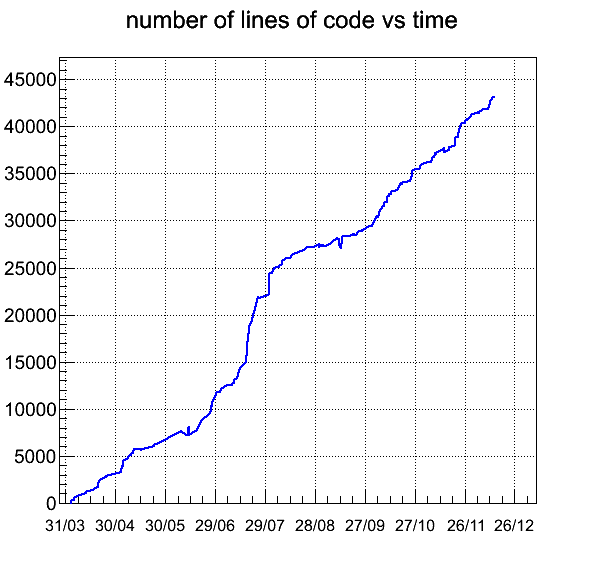
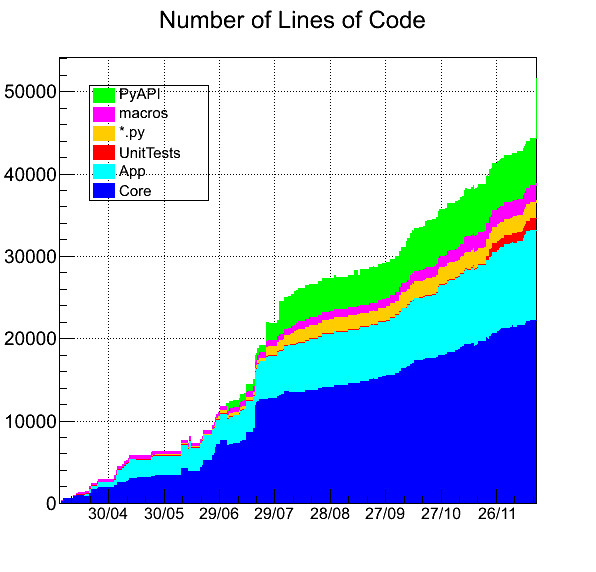
Number of lines of code has been split accross sub packages

diff --git a/Macros/GitUtils/git_loc_packages.py b/Macros/GitUtils/git_loc_packages.py
@@ -1,0 +1,216 @@
+#!/usr/bin/env python
+
+# calculate number of lines of code in GISASFW project as a function of time
+#
+# should be executed either from parent directory
+# "python Macros/GitUtils/git_loc_history.py"
+# or from local one
+# "python git_loc_history ../.."
+#
+# based on 'git-loc' from from https://github.com/ITikhonov/git-loc
+#
+# ROOT graphics added
+# see http://root.cern.ch/drupal/content/how-use-use-python-pyroot-interpreter
+
+import re
+from email.utils import parsedate
+from time import mktime
+from datetime import datetime
+from os import popen
+import os
+from sys import argv,stderr,stdout
+import getopt
+from array import array
+
+opts, args = getopt.getopt(argv[1:],None)
+extfolder = False
+if len(args) == 1:
+    extfolder = True
+    targetfolder = args[0]
+
+
+fc=0
+locs=0
+locs_type=[0,0,0,0,0,0,0,0]
+descr=["Core","App","UnitTests","*.py","macros","PyAPI","Third","Undef"]
+adds=None
+cmt=None
+prev_time = datetime(2000,1,1)
+
+history=[]
+
+def pop():
+    if adds is not None:
+        pstr="%s %8u %5s %5s %7s %s \t%s"%(d,locs,'+'+str(adds),'-'+str(dels),hsh,who,cmt.strip())
+        print pstr
+        atmp = []
+        for x in locs_type:
+            atmp.append(x)
+        history.append((d,locs,atmp,adds,dels,hsh,who,cmt))
+
+def filetype(x):
+    file_type=7
+    if "Core/Algorithms" in x and (".h" in x or ".cpp" in x):
+        file_type = 0
+    elif "Core/FormFactors" in x and (".h" in x or ".cpp" in x):
+        file_type = 0
+    elif "Core/Geometry" in x and (".h" in x or ".cpp" in x):
+        file_type = 0
+    elif "Core/Samples" in x and (".h" in x or ".cpp" in x):
+        file_type = 0
+    elif "Core/Tools" in x and (".h" in x or ".cpp" in x):
+        file_type = 0
+    elif "Core/inc" in x and (".h" in x):
+        file_type = 0
+    elif "Core/src" in x and (".cpp" in x):
+        file_type = 0
+    elif "App" in x and (".h" in x or ".cpp" in x):
+        file_type = 1
+    elif "UnitTests" in x and (".h" in x or ".cpp" in x):
+        file_type = 2
+    elif ".py" in x and not "ThirdParty" in x and not "Core/PythonAPI" in x:
+        file_type = 3
+    elif ".C" in x or ".pro" in x or ".pri" in x or "*.sh" in x and not "ThirdParty" in x:
+        file_type = 4
+    elif "Core/PythonAPI" in x and (".h" in x or ".cpp" in x):
+        file_type = 5
+    elif "ThirdParty" in x:
+        file_type = 6
+    return file_type
+
+prevfolder = os.getcwd()
+if extfolder:
+    os.chdir(targetfolder)
+
+# parsing output of git log 
+file_type_ppp = 7
+file_type_mmm = 7
+for x in popen('git log develop --reverse -p'):
+    if x.startswith('commit'):
+        pop()
+        hsh=x[7:14];
+    if x.startswith('Author'):
+        who=x.replace("Author: ",'').replace('\n','');
+        who=re.sub(">.*","",who);
+        who=re.sub(".*<","",who);
+    if x.startswith('Date'):
+        fc=1
+        d=datetime(*parsedate(x[5:])[:7])
+        t=mktime(parsedate(x[5:]))
+        adds=0
+        dels=0
+    if fc==2:
+        cmt=x[:-1]
+        fc=0
+    if fc==1:
+        if len(x)==1: fc=2
+    if x.startswith('+++'):
+        file_type_ppp = filetype(x)
+
+    if x.startswith('---'):
+        file_type_mmm = filetype(x)
+
+    if x.startswith('+') and not x.startswith('+++'):
+        locs_type[file_type_ppp] += 1
+        if file_type_ppp <6:
+            adds+=1
+            locs+=1
+    if x.startswith('-') and not x.startswith('---'):
+        locs_type[file_type_mmm] -= 1
+        if file_type_mmm <6:
+            dels+=1
+            locs-=1
+
+pop()
+os.chdir(prevfolder)
+
+
+# --------------------------------------------------------
+# making ROOT plot - number of lines of code .vs. time
+# --------------------------------------------------------
+from ROOT import *
+
+# beginning of coding (first commit) to set beginning of time x-scale
+c=history[0]
+td=TDatime(c[0].year, c[0].month, c[0].day, c[0].hour, c[0].minute, c[0].second)
+time_offset = int(td.Convert()) - 7*24.*3600 # one week before first commit
+
+# loop over commits
+x, y, xbins = array( 'd' ), array( 'd' ), array( 'd' )
+for c in history:
+  td=TDatime(c[0].year, c[0].month, c[0].day, c[0].hour, c[0].minute, c[0].second)
+  x.append(td.Convert() - time_offset)
+  xbins.append(td.Convert() - time_offset)
+  y.append(c[1]) # number of lines of code
+  print c[0],c[1],"(",descr[0],c[2][0],",",descr[1],c[2][1],",",descr[2],c[2][2],",",descr[3],c[2][3],",",descr[4],c[2][4],",",descr[5],c[2][5],")"
+
+# axis with bin edge description
+xbins = sorted(xbins)
+dx = x[len(x)-1] - x[len(x)-2]
+xbins.append(x[len(x)-1]+dx)
+xtmp = array( 'd' )
+for i in range(0, len(xbins)):
+    xtmp.append(xbins[i])
+
+# creating histograms
+nhistograms=6
+a_histograms = []
+hstack = THStack("hstack","Number of Lines of Code")
+a_colors=[kBlue, kCyan, kRed, kOrange, kMagenta, kGreen]
+legend = TLegend(0.15,0.65,0.35,0.85)
+legend.SetBorderSize(1);
+legend.SetFillStyle(1);
+for i_hist in range(0,nhistograms):
+    hist = TH1D(descr[i_hist],descr[i_hist],len(xtmp)-1,xtmp)
+    hist.GetXaxis().SetTimeDisplay(1)
+    hist.GetXaxis().SetTimeFormat("%d/%m")
+    hist.GetXaxis().SetLabelSize(0.03)
+    hist.GetXaxis().SetNdivisions(512)
+    hist.GetXaxis().SetTimeOffset(time_offset)
+    hist.SetLineColor(a_colors[i_hist])
+    hist.SetFillColor(a_colors[i_hist])
+    hstack.Add(hist,"][")
+    a_histograms.append(hist)
+
+# adding histograms to legend in right order
+for i_hist in range(nhistograms-1,-1,-1):
+    legend.AddEntry(a_histograms[i_hist],descr[i_hist],"f")
+
+# filling histograms
+for c in history:
+    td=TDatime(c[0].year, c[0].month, c[0].day, c[0].hour, c[0].minute, c[0].second)
+    xx = td.Convert() - time_offset
+    for i_hist in range(0,nhistograms):
+        yy = c[2][i_hist]
+        a_histograms[i_hist].Fill(xx,yy)
+
+#preparing canvas
+c1 = TCanvas( 'gisasfw_loc', 'Number of lines of code in GISASFW project', 600, 600)
+c1.cd()
+gPad.SetGrid()
+gPad.SetBottomMargin(0.12)
+
+# drawing
+hstack.Draw()
+hstack.GetXaxis().SetTimeDisplay(1)
+hstack.GetXaxis().SetTimeFormat("%d/%m")
+hstack.GetXaxis().SetLabelSize(0.03)
+hstack.GetXaxis().SetNdivisions(512)
+hstack.GetXaxis().SetTimeOffset(time_offset)
+
+legend.Draw()
+c1.Modified()
+gPad.RedrawAxis()
+gPad.RedrawAxis("G")
+c1.Print("gisasfw_loc.png")
+
+
+
+# wait for input to keep the GUI (which lives on a ROOT event dispatcher) alive
+if __name__ == '__main__':
+   rep = ''
+   while not rep in [ 'q', 'Q' ]:
+      rep = raw_input( 'enter "q" to quit: ' )
+      if 1 < len(rep):
+         rep = rep[0]
+
